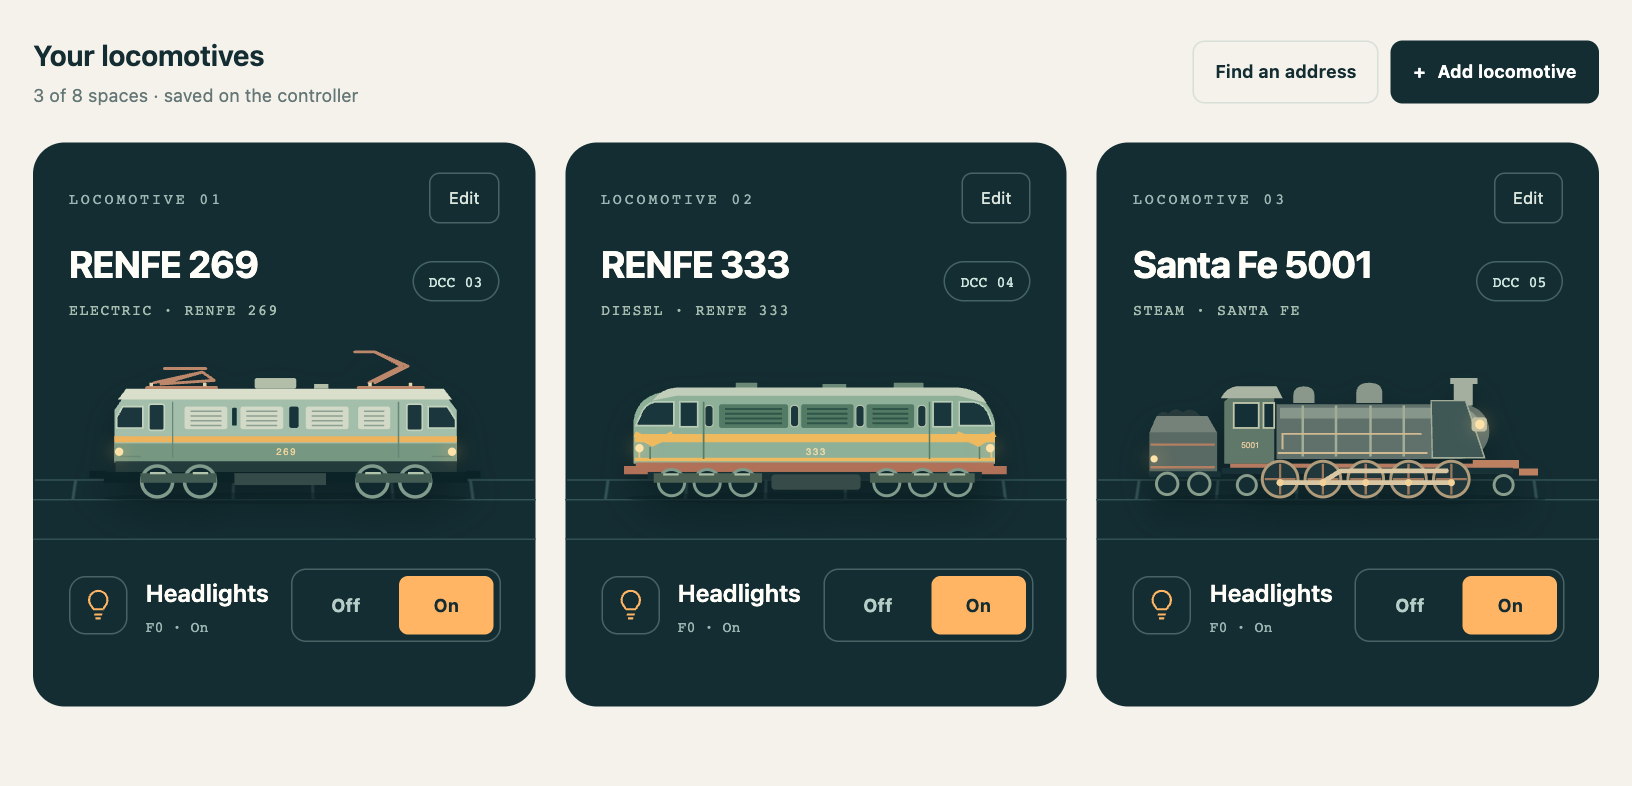
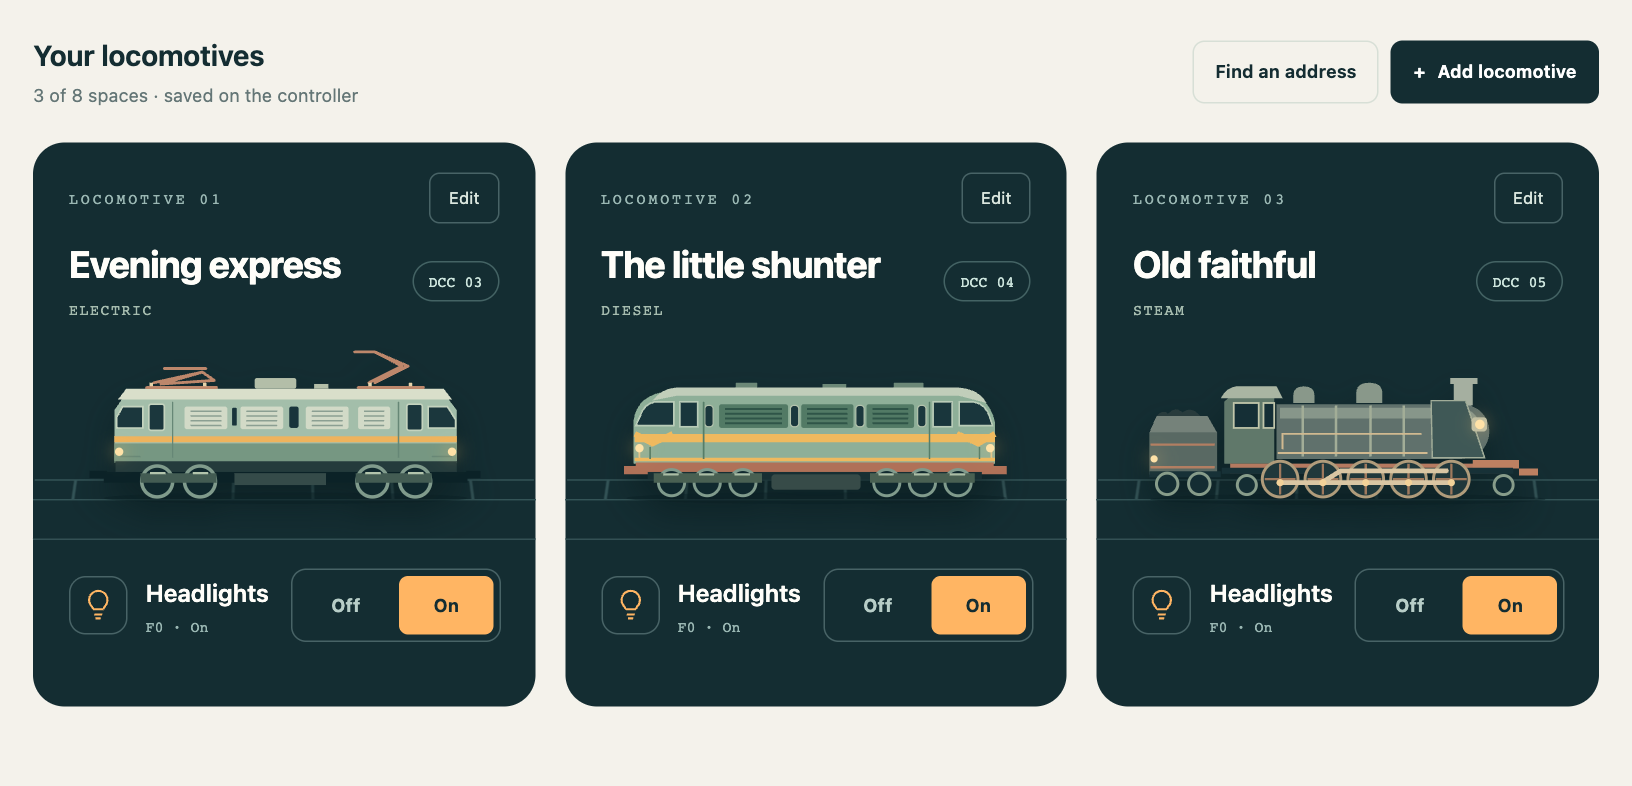
Remove prototype numbers and use generic loco labels

Changed region(s): [[0.0312, 0.3053, 0.2188, 0.3969], [0.6875, 0.3053, 0.8438, 0.3969], [0.375, 0.3053, 0.5312, 0.3969]]

diff --git a/web/index.html b/web/index.html
@@ -35,7 +35,7 @@
 <p id="roster-message" class="notice" role="status"></p></section>
 <div class="signal-strip"><aside class="side"><section class="signal-card"><p class="eyebrow" data-i18n="signalEyebrow">On the wire</p><div class="signal-heading"><h2 data-i18n="signalTitle">DCC signal</h2><span id="signal-status" class="signal-status"><i class="dot"></i><span id="signal-text">—</span></span></div><svg class="wave" viewBox="0 0 280 70" preserveAspectRatio="none" aria-hidden="true"><path d="M0 55h280M0 14h280" stroke="#e4e9df" stroke-dasharray="3 5"/><path d="M0 55h16V14h20v41h20V14h20v41h35V14h35v41h20V14h20v41h35V14h35v41h24" fill="none" stroke="#437d65" stroke-width="2.4" stroke-linejoin="round"/></svg><div class="signal-details"><div><span data-i18n="outputPin">Output pin</span><strong>GP2</strong></div><div><span data-i18n="logicLevel">Logic level</span><strong>3.3 V</strong></div></div><p data-i18n="signalHelp">Ready for the logic analyzer. The powered track output is the next stage.</p></section><section class="bench-card"><svg viewBox="0 0 24 24" fill="none" stroke="currentColor" stroke-width="1.5" aria-hidden="true"><path d="M9 3v7l-5 9a1.4 1.4 0 0 0 1.2 2h13.6a1.4 1.4 0 0 0 1.2-2l-5-9V3M8 3h8M7 15h10"/></svg><div><strong data-i18n="benchTitle">The diorama starts here.</strong><p data-i18n="benchHelp">F0 is ready to test. Track power and movement are not enabled yet.</p></div></section></aside></div>
 <details class="diagnostics"><summary data-i18n="diagnostics">Signal details</summary><p class="field-note" data-i18n="refreshHelp">Every locomotive is refreshed automatically, even with this page closed.</p><div id="packet-list" class="packet-list"></div><dl class="diagnostic-data"><div><dt data-i18n="halfBits">Half-bit timing</dt><dd>58 / 100 µs</dd></div><div><dt data-i18n="trackPower">Track power</dt><dd data-i18n="notEnabled">Not enabled</dd></div></dl></details>
-<dialog id="loco-dialog" aria-labelledby="editor-title"><form id="loco-form"><div class="editor-heading"><h2 id="editor-title">Add locomotive</h2><button id="close-editor" class="icon-button" type="button" aria-label="Close">×</button></div><input id="loco-id" type="hidden"><label for="loco-name" data-i18n="locoName">Name</label><input id="loco-name" maxlength="48" autocomplete="off"><small class="field-note" data-i18n="nameHelp">Optional. Give it a name that feels at home on your railway.</small><fieldset class="type-picker"><legend data-i18n="locoType">Locomotive type</legend><div class="type-options"><label class="type-option"><input type="radio" name="loco-type" value="electric" checked><span data-i18n="typeElectric">Electric</span></label><label class="type-option"><input type="radio" name="loco-type" value="diesel"><span data-i18n="typeDiesel">Diesel</span></label><label class="type-option"><input type="radio" name="loco-type" value="steam"><span data-i18n="typeSteam">Steam</span></label></div><div id="loco-preview" class="loco-preview train-art" aria-hidden="true"></div><small class="field-note type-note" data-i18n="typeHelp">Illustrations inspired by RENFE 269, 333 and Santa Fe.</small></fieldset><label for="loco-address" data-i18n="address">Locomotive address</label><input id="loco-address" type="number" min="1" max="127" step="1" required><small class="field-note" data-i18n="addressHelp">The short address stored in your decoder.</small><p class="field-note" data-i18n="editHelp">Changing the address starts this card with headlights off. The previous decoder keeps its last state.</p><p id="editor-message" class="notice" role="status"></p><div class="editor-actions"><button id="remove-loco" class="small-button danger" type="button" hidden data-i18n="removeLoco">Remove</button><div><button id="cancel-editor" class="small-button outline" type="button" data-i18n="cancel">Cancel</button><button id="save-loco" class="small-button" type="submit" data-i18n="saveLoco">Save locomotive</button></div></div></form></dialog>
+<dialog id="loco-dialog" aria-labelledby="editor-title"><form id="loco-form"><div class="editor-heading"><h2 id="editor-title">Add locomotive</h2><button id="close-editor" class="icon-button" type="button" aria-label="Close">×</button></div><input id="loco-id" type="hidden"><label for="loco-name" data-i18n="locoName">Name</label><input id="loco-name" maxlength="48" autocomplete="off"><small class="field-note" data-i18n="nameHelp">Optional. Give it a name that feels at home on your railway.</small><fieldset class="type-picker"><legend data-i18n="locoType">Locomotive type</legend><div class="type-options"><label class="type-option"><input type="radio" name="loco-type" value="electric" checked><span data-i18n="typeElectric">Electric</span></label><label class="type-option"><input type="radio" name="loco-type" value="diesel"><span data-i18n="typeDiesel">Diesel</span></label><label class="type-option"><input type="radio" name="loco-type" value="steam"><span data-i18n="typeSteam">Steam</span></label></div><div id="loco-preview" class="loco-preview train-art" aria-hidden="true"></div><small class="field-note type-note" data-i18n="typeHelp">Choose the illustration for this locomotive.</small></fieldset><label for="loco-address" data-i18n="address">Locomotive address</label><input id="loco-address" type="number" min="1" max="127" step="1" required><small class="field-note" data-i18n="addressHelp">The short address stored in your decoder.</small><p class="field-note" data-i18n="editHelp">Changing the address starts this card with headlights off. The previous decoder keeps its last state.</p><p id="editor-message" class="notice" role="status"></p><div class="editor-actions"><button id="remove-loco" class="small-button danger" type="button" hidden data-i18n="removeLoco">Remove</button><div><button id="cancel-editor" class="small-button outline" type="button" data-i18n="cancel">Cancel</button><button id="save-loco" class="small-button" type="submit" data-i18n="saveLoco">Save locomotive</button></div></div></form></dialog>
 <template id="loco-template"><article class="train-card"><div class="card-top"><span class="eyebrow slot-number"></span><button class="edit-loco" type="button" data-i18n="editLoco">Edit</button></div><div class="loco-identity"><div class="loco-heading"><h3 class="loco-name"></h3><p class="loco-kind"></p></div><span class="track-pill loco-address"></span></div><div class="train-art" aria-hidden="true"><div class="rails"></div><svg viewBox="0 0 380 145"></svg></div><div class="function-row"><div class="function-name"><span class="function-icon"><svg viewBox="0 0 24 24" fill="none" stroke="currentColor" stroke-width="1.6" aria-hidden="true"><path d="M8 15c0-2-3-3-3-7a7 7 0 0 1 14 0c0 4-3 5-3 7M8 15h8M9 19h6M10 22h4"/></svg></span><div><h4 data-i18n="lights">Headlights</h4><p>F0 · <span class="light-state">—</span></p></div></div><div class="light-buttons" role="group"><button class="dcc-action" type="button" data-on="0" aria-pressed="false" disabled data-i18n="off">Off</button><button class="dcc-action" type="button" data-on="1" aria-pressed="false" disabled data-i18n="on">On</button></div></div><p class="loco-message notice" role="status"></p></article></template>
 <!-- LOCO_ART_START -->
 <template id="art-electric"><svg xmlns="http://www.w3.org/2000/svg" viewBox="0 0 380 145" data-model="269">
@@ -58,7 +58,6 @@
 <g fill="#b3bea8"><rect x="165" y="29" width="35" height="9" rx="2"/><rect x="215" y="34" width="12" height="4"/></g>
 <g fill="none" stroke="#bd876b" stroke-width="2.4" stroke-linecap="round" stroke-linejoin="round"><path d="M74 37h59M80 33l41-9 10 7-45 3 35-10m-32-3h35M252 37h55m-46-4 28-14-23-12m0 0h-17m17 0 28 12-28 14"/></g>
 <path d="M78 36v-3m45 3v-3m139 3v-3m34 3v-3" stroke="#e5d3aa" stroke-width="3"/>
-<text x="192" y="94" text-anchor="middle" fill="#efd59b" font-family="sans-serif" font-size="8" letter-spacing="1.5">269</text>
 <circle class="lamp" cx="51" cy="91" r="3.5"/><circle class="lamp" cx="331" cy="91" r="3.5"/>
 </svg></template>
 <template id="art-diesel"><svg xmlns="http://www.w3.org/2000/svg" viewBox="0 0 380 145" data-model="333">
@@ -80,7 +79,6 @@
 <path d="M62 110h13m17 0h13m17 0h13m108 0h13m17 0h13m17 0h13" stroke="#abbda5" stroke-width="2"/>
 <path d="M123 37v-4h18v4m55 0v-3h20v3m40 0v-4h25v4" fill="#6c8877"/>
 <path d="M42 96v-11m296 11V85" stroke="#e0c68d" stroke-width="1.5"/>
-<text x="191" y="94" text-anchor="middle" fill="#efdcaa" font-family="sans-serif" font-size="8" letter-spacing="1.5">333</text>
 <circle class="lamp" cx="42" cy="88" r="3.5"/><circle class="lamp" cx="337" cy="88" r="3.5"/>
 </svg></template>
 <template id="art-steam"><svg xmlns="http://www.w3.org/2000/svg" viewBox="0 0 380 145" data-model="santa-fe">
@@ -108,7 +106,6 @@
 <g fill="#f2d299"><circle cx="133" cy="117" r="3"/><circle cx="169" cy="117" r="3"/><circle cx="205" cy="117" r="3"/><circle cx="241" cy="117" r="3"/><circle cx="277" cy="117" r="3"/></g>
 <rect x="294" y="62" width="13" height="12" rx="3" fill="#bcc0a9"/><circle class="lamp" cx="301" cy="68" r="4"/>
 <circle class="lamp" cx="27" cy="97" r="3"/>
-<text x="108" y="88" text-anchor="middle" fill="#dfc59b" font-family="sans-serif" font-size="7">5001</text>
 </svg></template>
 <!-- LOCO_ART_END -->
 <footer class="footer"><span data-i18n="footer">Built for trains on display.</span><span>anden-dcc <span data-version>—</span> · PICO W</span></footer>
@@ -149,8 +146,8 @@ Object.assign(translations.es, {
   confirmRemove:'¿Eliminar {name} de la lista? El decodificador conserva su último estado. Apaga sus luces antes si lo necesitas.',
   commandSent:'Luces {state}', pending:'Enviando…', packet:'Bytes del paquete', sentAddress:'Direcciones actualizadas'
 });
-Object.assign(translations.en,{locoType:'Locomotive type',typeElectric:'Electric',typeDiesel:'Diesel',typeSteam:'Steam',typeHelp:'Illustrations inspired by RENFE 269, 333 and Santa Fe.',kindElectric:'Electric · RENFE 269',kindDiesel:'Diesel · RENFE 333',kindSteam:'Steam · Santa Fe'});
-Object.assign(translations.es,{locoType:'Tipo de locomotora',typeElectric:'Eléctrica',typeDiesel:'Diésel',typeSteam:'Vapor',typeHelp:'Ilustraciones inspiradas en RENFE 269, 333 y Santa Fe.',kindElectric:'Eléctrica · RENFE 269',kindDiesel:'Diésel · RENFE 333',kindSteam:'Vapor · Santa Fe'});
+Object.assign(translations.en,{locoType:'Locomotive type',typeElectric:'Electric',typeDiesel:'Diesel',typeSteam:'Steam',typeHelp:'Choose the illustration for this locomotive.',kindElectric:'Electric',kindDiesel:'Diesel',kindSteam:'Steam'});
+Object.assign(translations.es,{locoType:'Tipo de locomotora',typeElectric:'Eléctrica',typeDiesel:'Diésel',typeSteam:'Vapor',typeHelp:'Elige la ilustración de esta locomotora.',kindElectric:'Eléctrica',kindDiesel:'Diésel',kindSteam:'Vapor'});
 const validType=type=>['electric','diesel','steam'].includes(type)?type:'electric';
 const kindKey=type=>'kind'+({electric:'Electric',diesel:'Diesel',steam:'Steam'}[validType(type)]);
 function renderArt(holder,type){

diff --git a/firmware/anden-dcc/WebAssets.h b/firmware/anden-dcc/WebAssets.h
@@ -38,7 +38,7 @@ const char PAGE[] = R"WEB(<!doctype html>
 <p id="roster-message" class="notice" role="status"></p></section>
 <div class="signal-strip"><aside class="side"><section class="signal-card"><p class="eyebrow" data-i18n="signalEyebrow">On the wire</p><div class="signal-heading"><h2 data-i18n="signalTitle">DCC signal</h2><span id="signal-status" class="signal-status"><i class="dot"></i><span id="signal-text">—</span></span></div><svg class="wave" viewBox="0 0 280 70" preserveAspectRatio="none" aria-hidden="true"><path d="M0 55h280M0 14h280" stroke="#e4e9df" stroke-dasharray="3 5"/><path d="M0 55h16V14h20v41h20V14h20v41h35V14h35v41h20V14h20v41h35V14h35v41h24" fill="none" stroke="#437d65" stroke-width="2.4" stroke-linejoin="round"/></svg><div class="signal-details"><div><span data-i18n="outputPin">Output pin</span><strong>GP2</strong></div><div><span data-i18n="logicLevel">Logic level</span><strong>3.3 V</strong></div></div><p data-i18n="signalHelp">Ready for the logic analyzer. The powered track output is the next stage.</p></section><section class="bench-card"><svg viewBox="0 0 24 24" fill="none" stroke="currentColor" stroke-width="1.5" aria-hidden="true"><path d="M9 3v7l-5 9a1.4 1.4 0 0 0 1.2 2h13.6a1.4 1.4 0 0 0 1.2-2l-5-9V3M8 3h8M7 15h10"/></svg><div><strong data-i18n="benchTitle">The diorama starts here.</strong><p data-i18n="benchHelp">F0 is ready to test. Track power and movement are not enabled yet.</p></div></section></aside></div>
 <details class="diagnostics"><summary data-i18n="diagnostics">Signal details</summary><p class="field-note" data-i18n="refreshHelp">Every locomotive is refreshed automatically, even with this page closed.</p><div id="packet-list" class="packet-list"></div><dl class="diagnostic-data"><div><dt data-i18n="halfBits">Half-bit timing</dt><dd>58 / 100 µs</dd></div><div><dt data-i18n="trackPower">Track power</dt><dd data-i18n="notEnabled">Not enabled</dd></div></dl></details>
-<dialog id="loco-dialog" aria-labelledby="editor-title"><form id="loco-form"><div class="editor-heading"><h2 id="editor-title">Add locomotive</h2><button id="close-editor" class="icon-button" type="button" aria-label="Close">×</button></div><input id="loco-id" type="hidden"><label for="loco-name" data-i18n="locoName">Name</label><input id="loco-name" maxlength="48" autocomplete="off"><small class="field-note" data-i18n="nameHelp">Optional. Give it a name that feels at home on your railway.</small><fieldset class="type-picker"><legend data-i18n="locoType">Locomotive type</legend><div class="type-options"><label class="type-option"><input type="radio" name="loco-type" value="electric" checked><span data-i18n="typeElectric">Electric</span></label><label class="type-option"><input type="radio" name="loco-type" value="diesel"><span data-i18n="typeDiesel">Diesel</span></label><label class="type-option"><input type="radio" name="loco-type" value="steam"><span data-i18n="typeSteam">Steam</span></label></div><div id="loco-preview" class="loco-preview train-art" aria-hidden="true"></div><small class="field-note type-note" data-i18n="typeHelp">Illustrations inspired by RENFE 269, 333 and Santa Fe.</small></fieldset><label for="loco-address" data-i18n="address">Locomotive address</label><input id="loco-address" type="number" min="1" max="127" step="1" required><small class="field-note" data-i18n="addressHelp">The short address stored in your decoder.</small><p class="field-note" data-i18n="editHelp">Changing the address starts this card with headlights off. The previous decoder keeps its last state.</p><p id="editor-message" class="notice" role="status"></p><div class="editor-actions"><button id="remove-loco" class="small-button danger" type="button" hidden data-i18n="removeLoco">Remove</button><div><button id="cancel-editor" class="small-button outline" type="button" data-i18n="cancel">Cancel</button><button id="save-loco" class="small-button" type="submit" data-i18n="saveLoco">Save locomotive</button></div></div></form></dialog>
+<dialog id="loco-dialog" aria-labelledby="editor-title"><form id="loco-form"><div class="editor-heading"><h2 id="editor-title">Add locomotive</h2><button id="close-editor" class="icon-button" type="button" aria-label="Close">×</button></div><input id="loco-id" type="hidden"><label for="loco-name" data-i18n="locoName">Name</label><input id="loco-name" maxlength="48" autocomplete="off"><small class="field-note" data-i18n="nameHelp">Optional. Give it a name that feels at home on your railway.</small><fieldset class="type-picker"><legend data-i18n="locoType">Locomotive type</legend><div class="type-options"><label class="type-option"><input type="radio" name="loco-type" value="electric" checked><span data-i18n="typeElectric">Electric</span></label><label class="type-option"><input type="radio" name="loco-type" value="diesel"><span data-i18n="typeDiesel">Diesel</span></label><label class="type-option"><input type="radio" name="loco-type" value="steam"><span data-i18n="typeSteam">Steam</span></label></div><div id="loco-preview" class="loco-preview train-art" aria-hidden="true"></div><small class="field-note type-note" data-i18n="typeHelp">Choose the illustration for this locomotive.</small></fieldset><label for="loco-address" data-i18n="address">Locomotive address</label><input id="loco-address" type="number" min="1" max="127" step="1" required><small class="field-note" data-i18n="addressHelp">The short address stored in your decoder.</small><p class="field-note" data-i18n="editHelp">Changing the address starts this card with headlights off. The previous decoder keeps its last state.</p><p id="editor-message" class="notice" role="status"></p><div class="editor-actions"><button id="remove-loco" class="small-button danger" type="button" hidden data-i18n="removeLoco">Remove</button><div><button id="cancel-editor" class="small-button outline" type="button" data-i18n="cancel">Cancel</button><button id="save-loco" class="small-button" type="submit" data-i18n="saveLoco">Save locomotive</button></div></div></form></dialog>
 <template id="loco-template"><article class="train-card"><div class="card-top"><span class="eyebrow slot-number"></span><button class="edit-loco" type="button" data-i18n="editLoco">Edit</button></div><div class="loco-identity"><div class="loco-heading"><h3 class="loco-name"></h3><p class="loco-kind"></p></div><span class="track-pill loco-address"></span></div><div class="train-art" aria-hidden="true"><div class="rails"></div><svg viewBox="0 0 380 145"></svg></div><div class="function-row"><div class="function-name"><span class="function-icon"><svg viewBox="0 0 24 24" fill="none" stroke="currentColor" stroke-width="1.6" aria-hidden="true"><path d="M8 15c0-2-3-3-3-7a7 7 0 0 1 14 0c0 4-3 5-3 7M8 15h8M9 19h6M10 22h4"/></svg></span><div><h4 data-i18n="lights">Headlights</h4><p>F0 · <span class="light-state">—</span></p></div></div><div class="light-buttons" role="group"><button class="dcc-action" type="button" data-on="0" aria-pressed="false" disabled data-i18n="off">Off</button><button class="dcc-action" type="button" data-on="1" aria-pressed="false" disabled data-i18n="on">On</button></div></div><p class="loco-message notice" role="status"></p></article></template>
 <!-- LOCO_ART_START -->
 <template id="art-electric"><svg xmlns="http://www.w3.org/2000/svg" viewBox="0 0 380 145" data-model="269">
@@ -61,7 +61,6 @@ const char PAGE[] = R"WEB(<!doctype html>
 <g fill="#b3bea8"><rect x="165" y="29" width="35" height="9" rx="2"/><rect x="215" y="34" width="12" height="4"/></g>
 <g fill="none" stroke="#bd876b" stroke-width="2.4" stroke-linecap="round" stroke-linejoin="round"><path d="M74 37h59M80 33l41-9 10 7-45 3 35-10m-32-3h35M252 37h55m-46-4 28-14-23-12m0 0h-17m17 0 28 12-28 14"/></g>
 <path d="M78 36v-3m45 3v-3m139 3v-3m34 3v-3" stroke="#e5d3aa" stroke-width="3"/>
-<text x="192" y="94" text-anchor="middle" fill="#efd59b" font-family="sans-serif" font-size="8" letter-spacing="1.5">269</text>
 <circle class="lamp" cx="51" cy="91" r="3.5"/><circle class="lamp" cx="331" cy="91" r="3.5"/>
 </svg></template>
 <template id="art-diesel"><svg xmlns="http://www.w3.org/2000/svg" viewBox="0 0 380 145" data-model="333">
@@ -83,7 +82,6 @@ const char PAGE[] = R"WEB(<!doctype html>
 <path d="M62 110h13m17 0h13m17 0h13m108 0h13m17 0h13m17 0h13" stroke="#abbda5" stroke-width="2"/>
 <path d="M123 37v-4h18v4m55 0v-3h20v3m40 0v-4h25v4" fill="#6c8877"/>
 <path d="M42 96v-11m296 11V85" stroke="#e0c68d" stroke-width="1.5"/>
-<text x="191" y="94" text-anchor="middle" fill="#efdcaa" font-family="sans-serif" font-size="8" letter-spacing="1.5">333</text>
 <circle class="lamp" cx="42" cy="88" r="3.5"/><circle class="lamp" cx="337" cy="88" r="3.5"/>
 </svg></template>
 <template id="art-steam"><svg xmlns="http://www.w3.org/2000/svg" viewBox="0 0 380 145" data-model="santa-fe">
@@ -111,7 +109,6 @@ const char PAGE[] = R"WEB(<!doctype html>
 <g fill="#f2d299"><circle cx="133" cy="117" r="3"/><circle cx="169" cy="117" r="3"/><circle cx="205" cy="117" r="3"/><circle cx="241" cy="117" r="3"/><circle cx="277" cy="117" r="3"/></g>
 <rect x="294" y="62" width="13" height="12" rx="3" fill="#bcc0a9"/><circle class="lamp" cx="301" cy="68" r="4"/>
 <circle class="lamp" cx="27" cy="97" r="3"/>
-<text x="108" y="88" text-anchor="middle" fill="#dfc59b" font-family="sans-serif" font-size="7">5001</text>
 </svg></template>
 <!-- LOCO_ART_END -->
 <footer class="footer"><span data-i18n="footer">Built for trains on display.</span><span>anden-dcc <span data-version>—</span> · PICO W</span></footer>
@@ -152,8 +149,8 @@ Object.assign(translations.es, {
   confirmRemove:'¿Eliminar {name} de la lista? El decodificador conserva su último estado. Apaga sus luces antes si lo necesitas.',
   commandSent:'Luces {state}', pending:'Enviando…', packet:'Bytes del paquete', sentAddress:'Direcciones actualizadas'
 });
-Object.assign(translations.en,{locoType:'Locomotive type',typeElectric:'Electric',typeDiesel:'Diesel',typeSteam:'Steam',typeHelp:'Illustrations inspired by RENFE 269, 333 and Santa Fe.',kindElectric:'Electric · RENFE 269',kindDiesel:'Diesel · RENFE 333',kindSteam:'Steam · Santa Fe'});
-Object.assign(translations.es,{locoType:'Tipo de locomotora',typeElectric:'Eléctrica',typeDiesel:'Diésel',typeSteam:'Vapor',typeHelp:'Ilustraciones inspiradas en RENFE 269, 333 y Santa Fe.',kindElectric:'Eléctrica · RENFE 269',kindDiesel:'Diésel · RENFE 333',kindSteam:'Vapor · Santa Fe'});
+Object.assign(translations.en,{locoType:'Locomotive type',typeElectric:'Electric',typeDiesel:'Diesel',typeSteam:'Steam',typeHelp:'Choose the illustration for this locomotive.',kindElectric:'Electric',kindDiesel:'Diesel',kindSteam:'Steam'});
+Object.assign(translations.es,{locoType:'Tipo de locomotora',typeElectric:'Eléctrica',typeDiesel:'Diésel',typeSteam:'Vapor',typeHelp:'Elige la ilustración de esta locomotora.',kindElectric:'Eléctrica',kindDiesel:'Diésel',kindSteam:'Vapor'});
 const validType=type=>['electric','diesel','steam'].includes(type)?type:'electric';
 const kindKey=type=>'kind'+({electric:'Electric',diesel:'Diesel',steam:'Steam'}[validType(type)]);
 function renderArt(holder,type){

diff --git a/docs/LOCO-ART.md b/docs/LOCO-ART.md
@@ -1,6 +1,8 @@
 # Locomotive artwork
 
 Three original, stylized SVG illustrations extend the existing flat palette.
+The UI uses generic Electric / Diesel / Steam labels and no painted model
+numbers (0.6.2). Prototype references below describe the inspiration only.
 They are visual bases for electric, diesel and steam cards, not scale drawings
 or claims that the decoder identifies a particular model.
 
@@ -29,7 +31,7 @@ embedded `WebAssets.h`. CI checks both for freshness. Each SVG is embedded once
 and cloned in the browser; it is not duplicated in firmware for every loco.
 No image downloads, external fonts or raster assets are needed at runtime.
 
-The three SVG source files total 7114 bytes. The complete 0.6.1 firmware uses
+The initial 0.6.1 SVG source files totaled 7114 bytes. The complete 0.6.1 firmware uses
 501148 program bytes versus 491076 in 0.6.0: **10072 extra bytes**, including the
 selector, metadata storage, API changes and OTA staging cleanup. It remains below half the 1044480-byte
 application partition; global RAM increases by 8 bytes to 74712. The PNG preview

diff --git a/docs/VALIDATION.md b/docs/VALIDATION.md
@@ -1,4 +1,14 @@
-# Release 0.6.1 · RENFE-inspired locomotive artwork
+# Release 0.6.2 · generic locomotive illustrations
+
+Removed painted model numbers and prototype-specific labels from the live UI.
+Electric / Diesel / Steam and their Spanish translations identify the types;
+DCC addresses, user-entered names, silhouettes and saved type values are kept.
+Build, browser and DCC checks pass; no power-stage changes.
+Pico W build: 500676 program bytes (47%), 74712 global RAM bytes (28%).
+
+## Previous release evidence
+
+## Release 0.6.1 · RENFE-inspired locomotive artwork
 
 - Three original inline SVG illustrations: electric based on RENFE 269, diesel
   on the original RENFE 333, steam on Santa Fe 151/5001. Live editor preview,

diff --git a/README.md b/README.md
@@ -19,7 +19,7 @@ some light, sound and, eventually, a little movement—without a full-size comma
 station. A Raspberry Pi Pico W hosts the panel and generates DCC in its PIO
 hardware, independent of browser and Wi-Fi activity.
 
-**Current release: 0.6.1.** A shared locomotive roster, independent F0/headlights
+**Current release: 0.6.2.** A shared locomotive roster, independent F0/headlights
 and a guided F0 address finder are implemented. This is a **logic-output prototype**. Track
 power, motor control and current protection are not enabled in firmware. The
 Deek-Robot power assembly is a documented proposal for the next stage.
